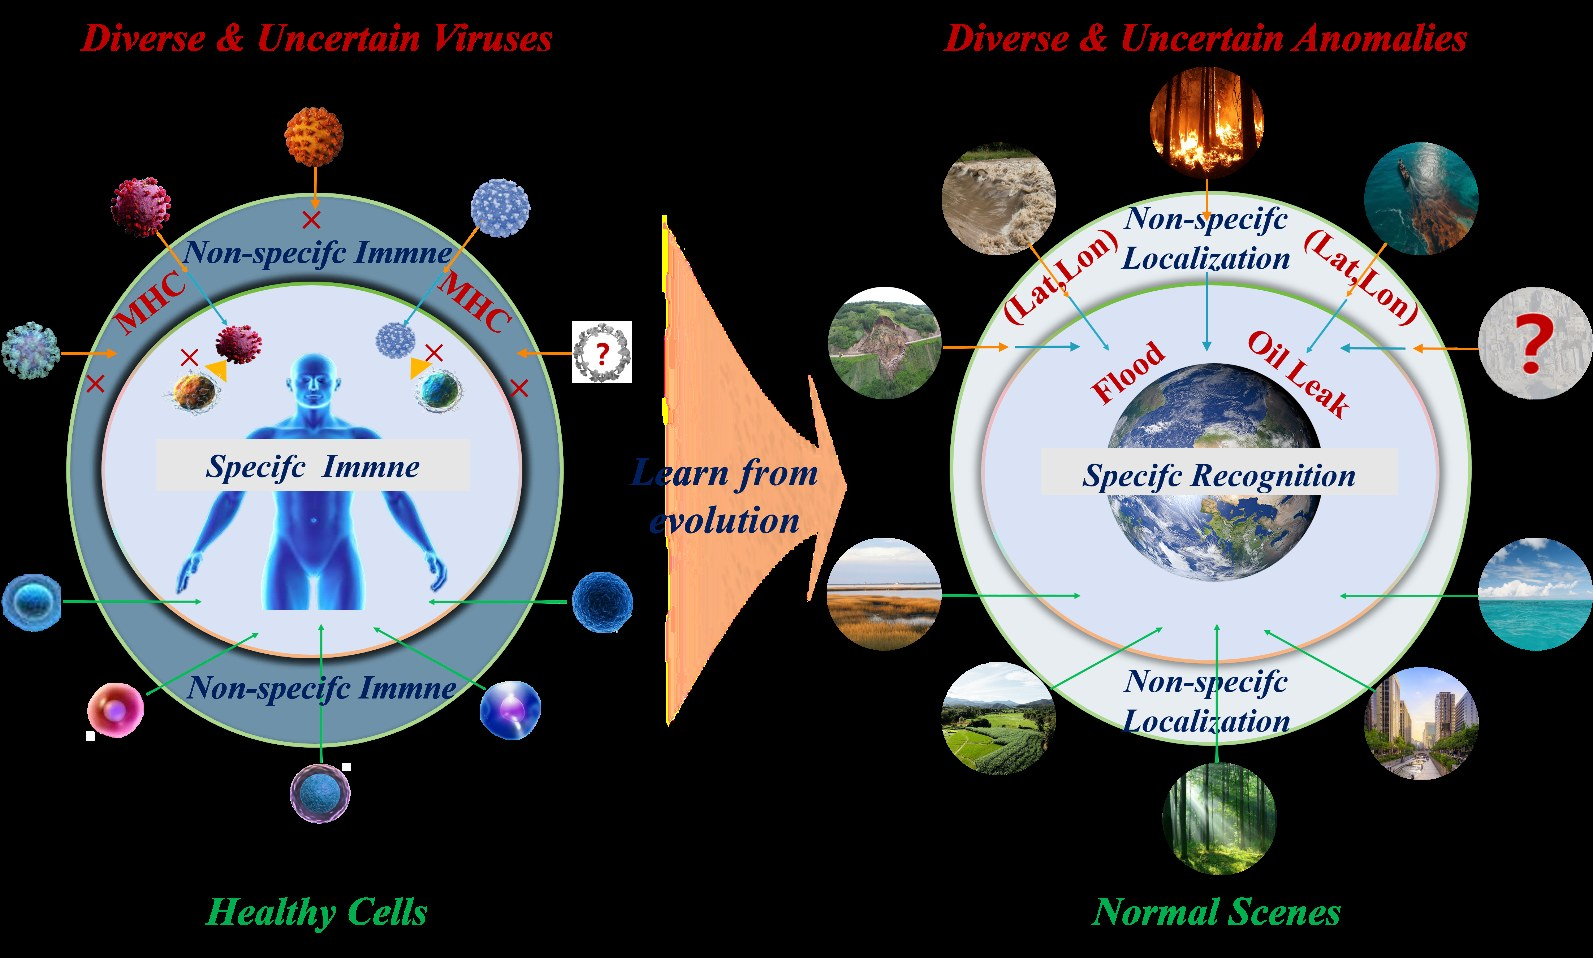
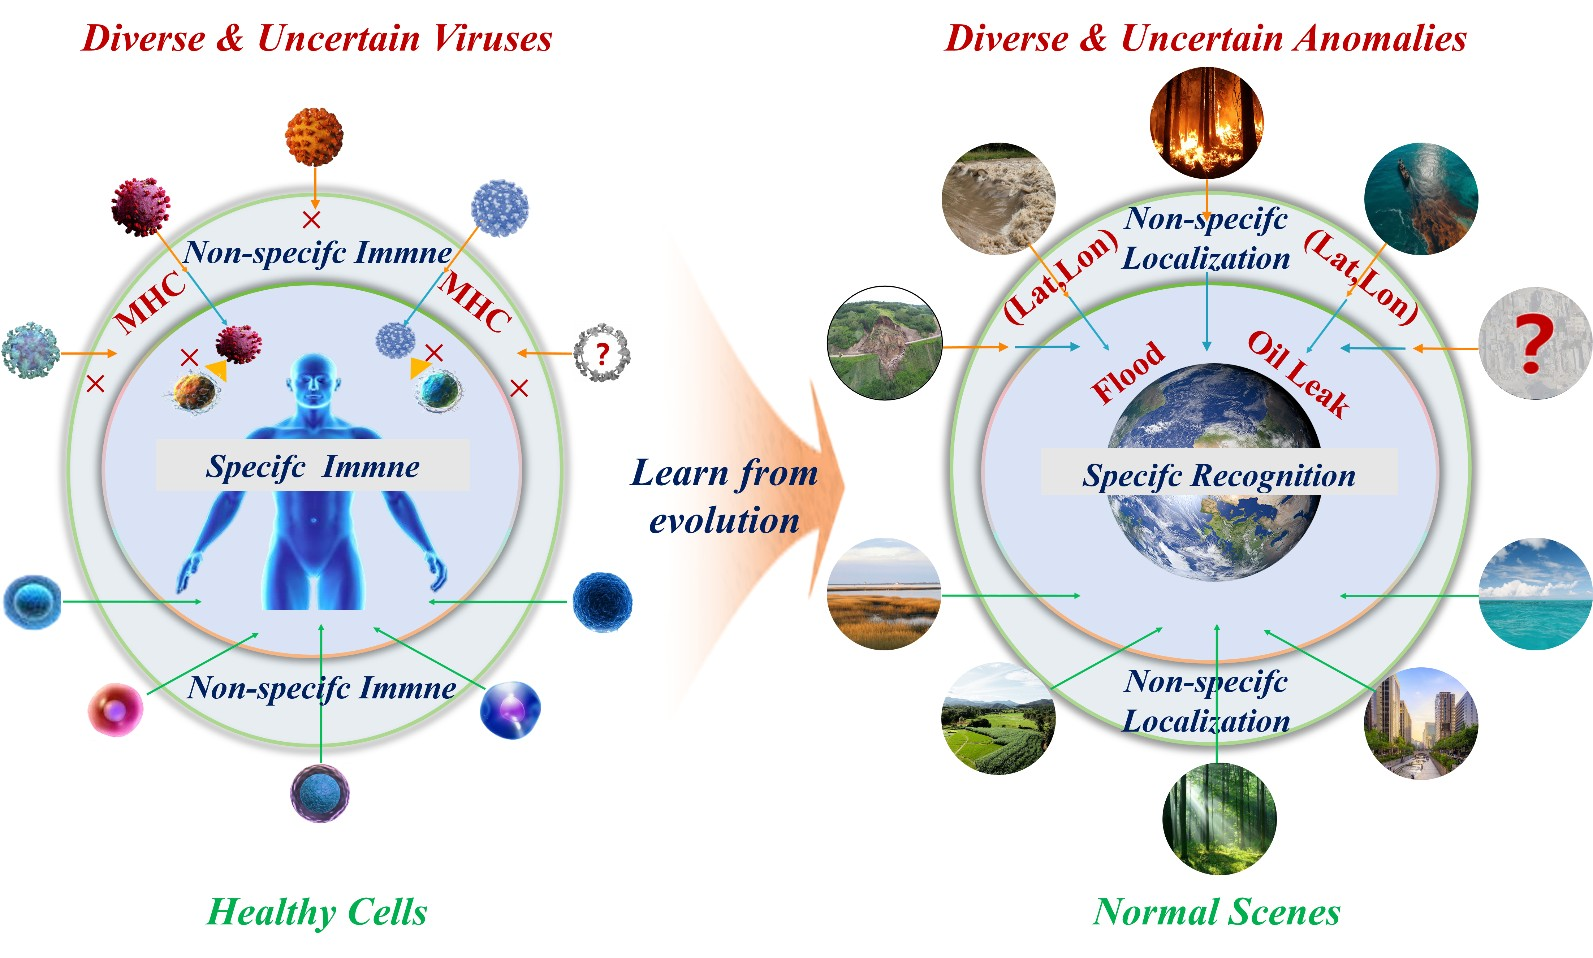
Use GIF thumbnail for E2Forecast, fix ESIA thumbnail background, add co-organizer services, fix visitor map

diff --git a/index.html b/index.html
@@ -153,7 +153,7 @@ jasif=15.3;
 <table class="imgtable">
 
 <tr>
-<td><img class="proj_thumb" src="./papers/E2Forecast.jpg" alt="" height="100px"/>&nbsp;</td>
+<td><img class="proj_thumb" src="./papers/E2Forecast.gif" alt="" height="100px"/>&nbsp;</td>
 <td>
 <p class="pub_title"><a href= "https://arxiv.org/abs/2611.02211" target="_blank">
 <b>Forecasting Earth Surface Change in Embedding Space</b></a></p>
@@ -410,9 +410,14 @@ IEEE Transactions on Geoscience and Remote Sensing (<b>IEEE TGRS</b>), 2024<br>
 <li>NIPS 2024, AAAI2024, CVPR2025, ICCV2025, AAAI2026(PC)
 </ul>
 
-<div style="height: 100px;width: 100px;">
-    <a href='https://clustrmaps.com/site/1c3dt'  title='Visit tracker'>
-    <img src='//clustrmaps.com/map_v2.png?cl=ffffff&w=a&t=n&d=wD3JfzE73T8e5QsTmDGjp7waevxKsTdD9pnyNVnclKI'/></a>
+<p><b>Co-organizer: </b></p>
+<ul>
+<li><a href="https://meetingorganizer.copernicus.org/EGU27/session/61703" target="_blank">EGU 2027 session</a>: Geospatial Foundation Models for Earth Observation and Earth Sciences: From Foundations to Applications (2026)</li>
+<li><a href="https://www.codabench.org/competitions/17617/?secret_key=0c2cdc73-9570-4825-b79b-e2394c666129" target="_blank">The Second Hyperspectral Remote Sensing Data Processing and Application Competition</a> (2026)</li>
+</ul>
+
+<div style="text-align:center; margin:20px 0;">
+    <script type="text/javascript" id="clustrmaps" src="//clustrmaps.com/map_v2.js?d=wD3JfzE73T8e5QsTmDGjp7waevxKsTdD9pnyNVnclKI&cl=ffffff&w=a"></script>
 </div>
     
 <!-- Editor Visitor Map Here -->
